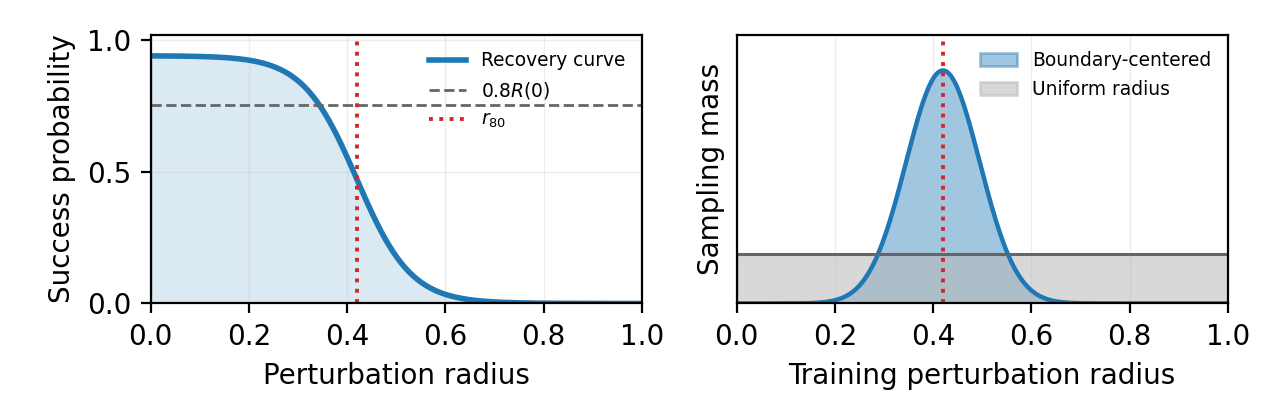
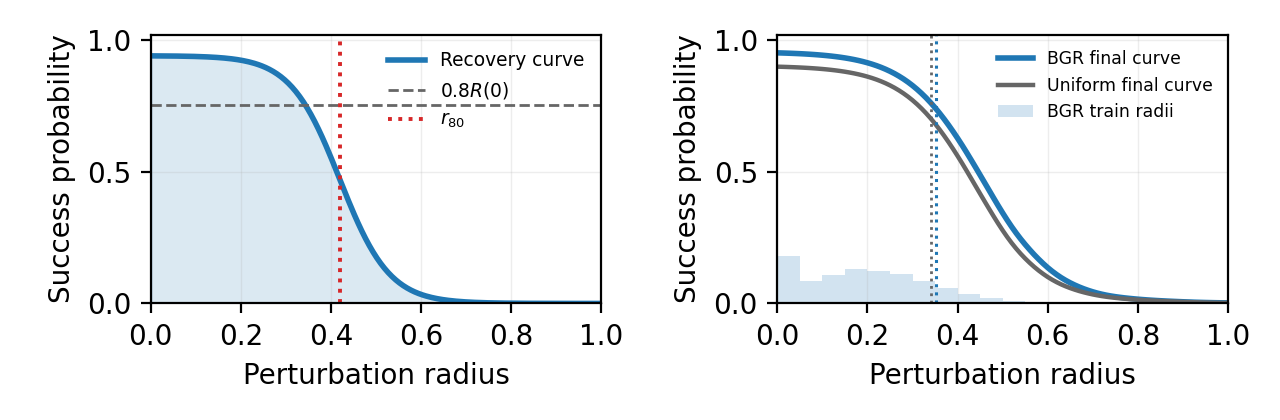
Add empirical boundary intuition figure

diff --git a/scripts/aggregate_results.py b/scripts/aggregate_results.py
@@ -3,7 +3,9 @@ from __future__ import annotations
 
 import argparse
 import csv
+import json
 import math
+import sys
 from pathlib import Path
 
 
@@ -178,7 +180,7 @@ def main() -> None:
         write_csv(out_dir / "openvla_stats.csv", openvla_rows)
         write_openvla_table(out_dir / "openvla_table.tex", openvla_rows)
     try:
-        make_boundary_intuition_figure(out_dir)
+        make_boundary_intuition_figure(out_dir, results_dir)
         make_figures(out_dir, summary_rows)
         if estimator_rows:
             make_estimator_figure(out_dir, estimator_rows)
@@ -737,7 +739,7 @@ def make_figures(out_dir: Path, rows: list[dict]) -> None:
         plt.close(fig)
 
 
-def make_boundary_intuition_figure(out_dir: Path) -> None:
+def make_boundary_intuition_figure(out_dir: Path, results_dir: Path) -> None:
     import matplotlib.pyplot as plt
     import numpy as np
 
@@ -748,9 +750,8 @@ def make_boundary_intuition_figure(out_dir: Path) -> None:
     recovery = clean / (1.0 + np.exp((sigma - radius) / 0.055))
     alpha = 0.8
     threshold = alpha * clean
-    boundary_density = np.exp(-0.5 * ((sigma - radius) / 0.075) ** 2)
-    boundary_density = 0.26 * boundary_density / boundary_density.max()
-    uniform_density = np.full_like(sigma, 0.055)
+
+    trace = grid_margin_boundary_trace(results_dir)
 
     fig, axes = plt.subplots(1, 2, figsize=(6.4, 2.1))
     ax = axes[0]
@@ -766,23 +767,153 @@ def make_boundary_intuition_figure(out_dir: Path) -> None:
     ax.legend(loc="upper right", fontsize=6.7, frameon=False)
 
     ax = axes[1]
-    ax.fill_between(sigma, boundary_density, color="#1f77b4", alpha=0.42, label="Boundary-centered")
-    ax.plot(sigma, boundary_density, color="#1f77b4", linewidth=1.6)
-    ax.fill_between(sigma, uniform_density, color="#b8b8b8", alpha=0.55, label="Uniform radius")
-    ax.plot(sigma, uniform_density, color="#666666", linewidth=1.1)
-    ax.axvline(radius, color="#d62728", linestyle=":", linewidth=1.4)
-    ax.set_xlabel("Training perturbation radius")
-    ax.set_ylabel("Sampling mass")
-    ax.set_ylim(0, 0.30)
+    empirical_sigma = trace["sigma"]
+    bgr_curve = trace["bgr_curve"]
+    uniform_curve = trace["uniform_curve"]
+    ax.plot(empirical_sigma, bgr_curve, color="#1f77b4", linewidth=2.0, label="BGR final curve")
+    ax.plot(empirical_sigma, uniform_curve, color="#666666", linewidth=1.6, label="Uniform final curve")
+    ax.axvline(trace["bgr_median_r80"], color="#1f77b4", linestyle=":", linewidth=1.1)
+    ax.axvline(trace["uniform_median_r80"], color="#666666", linestyle=":", linewidth=1.0)
+    hist, edges = np.histogram(trace["bgr_sampled_sigmas"], bins=np.linspace(0.0, 1.0, 21))
+    heights = hist / max(1, int(hist.max())) * 0.18
+    ax.bar(
+        edges[:-1],
+        heights,
+        width=np.diff(edges),
+        align="edge",
+        color="#1f77b4",
+        alpha=0.20,
+        edgecolor="none",
+        label="BGR train radii",
+    )
+    ax.set_xlabel("Perturbation radius")
+    ax.set_ylabel("Success probability")
+    ax.set_ylim(0, 1.02)
     ax.set_xlim(0, 1.0)
-    ax.set_yticks([])
-    ax.grid(axis="x", alpha=0.22, linewidth=0.5)
-    ax.legend(loc="upper right", fontsize=6.7, frameon=False)
+    ax.grid(alpha=0.22, linewidth=0.5)
+    ax.legend(loc="upper right", fontsize=6.2, frameon=False)
 
     fig.tight_layout(w_pad=1.2)
     fig.savefig(out_dir / "boundary_intuition.pdf")
     fig.savefig(out_dir / "boundary_intuition.png", dpi=200)
     plt.close(fig)
+
+    write_csv(
+        out_dir / "boundary_intuition_stats.csv",
+        [
+            {"metric": "seed", "value": trace["seed"]},
+            {"metric": "bgr_final_rauc", "value": trace["bgr_rauc"]},
+            {"metric": "uniform_final_rauc", "value": trace["uniform_rauc"]},
+            {"metric": "bgr_median_r80", "value": trace["bgr_median_r80"]},
+            {"metric": "uniform_median_r80", "value": trace["uniform_median_r80"]},
+            {"metric": "bgr_sample_radius_q25", "value": trace["bgr_sample_radius_q25"]},
+            {"metric": "bgr_sample_radius_median", "value": trace["bgr_sample_radius_median"]},
+            {"metric": "bgr_sample_radius_q75", "value": trace["bgr_sample_radius_q75"]},
+        ],
+    )
+
+
+def grid_margin_boundary_trace(results_dir: Path) -> dict:
+    import numpy as np
+
+    root = Path(__file__).resolve().parents[1]
+    src_dir = root / "src"
+    if str(src_dir) not in sys.path:
+        sys.path.insert(0, str(src_dir))
+
+    from bgr.metrics import critical_radius, recovery_auc
+
+    config = json.loads((results_dir / "grid_margin_full_30seed_v1" / "results.json").read_text(encoding="utf-8"))[
+        "config"
+    ]
+    seed = 0
+    sigma_grid = np.linspace(0.0, 1.0, 101)
+    alpha = float(config["experiment"].get("alpha", 0.8))
+    bgr = _run_grid_margin_trace(config, "bgr", seed, sigma_grid)
+    uniform = _run_grid_margin_trace(config, "uniform", seed, sigma_grid)
+
+    bgr_radii = [critical_radius(sigma_grid, curve, alpha=alpha) for curve in bgr["state_curves"]]
+    uniform_radii = [critical_radius(sigma_grid, curve, alpha=alpha) for curve in uniform["state_curves"]]
+    bgr_raucs = [recovery_auc(sigma_grid, curve, sigma_max=1.0) for curve in bgr["state_curves"]]
+    uniform_raucs = [recovery_auc(sigma_grid, curve, sigma_max=1.0) for curve in uniform["state_curves"]]
+    sampled = np.asarray(bgr["sampled_sigmas"], dtype=float)
+    return {
+        "seed": seed,
+        "sigma": sigma_grid,
+        "bgr_curve": np.mean(np.vstack(bgr["state_curves"]), axis=0),
+        "uniform_curve": np.mean(np.vstack(uniform["state_curves"]), axis=0),
+        "bgr_rauc": float(np.mean(bgr_raucs)),
+        "uniform_rauc": float(np.mean(uniform_raucs)),
+        "bgr_median_r80": float(np.median(bgr_radii)),
+        "uniform_median_r80": float(np.median(uniform_radii)),
+        "bgr_sampled_sigmas": sampled,
+        "bgr_sample_radius_q25": float(np.quantile(sampled, 0.25)),
+        "bgr_sample_radius_median": float(np.quantile(sampled, 0.50)),
+        "bgr_sample_radius_q75": float(np.quantile(sampled, 0.75)),
+    }
+
+
+def _run_grid_margin_trace(config: dict, method: str, seed: int, sigma_grid) -> dict:
+    import numpy as np
+
+    from bgr.envs.grid_recovery import GridMarginRecoveryBenchmark
+    from bgr.experiments.grid_margin import (
+        _init_records,
+        _refresh_records,
+        _sample_training_pair,
+        _uses_bgr_records,
+    )
+    from bgr.priorities import BGRPriorityScorer
+
+    exp = config["experiment"]
+    bgr_cfg = config.get("bgr", {})
+    rng = np.random.default_rng(seed + 30_000)
+    bench = GridMarginRecoveryBenchmark(
+        num_tasks=int(exp["num_tasks"]),
+        grid_size=int(exp["grid_size"]),
+        obstacle_prob=float(exp["obstacle_prob"]),
+        replay_states_per_task=int(exp["replay_states_per_task"]),
+        max_offset=int(exp["max_offset"]),
+        learning_rate=float(exp["learning_rate"]),
+        seed=seed,
+        feasible_radius_floor=float(exp.get("feasible_radius_floor", 0.35)),
+        feasible_radius_base=float(exp.get("feasible_radius_base", 0.45)),
+        feasible_radius_path_scale=float(exp.get("feasible_radius_path_scale", 0.45)),
+        feasible_radius_noise=float(exp.get("feasible_radius_noise", 0.03)),
+        initial_margin_base=float(exp.get("initial_margin_base", 0.12)),
+        initial_margin_path_scale=float(exp.get("initial_margin_path_scale", 0.22)),
+        initial_margin_noise=float(exp.get("initial_margin_noise", 0.05)),
+        initial_margin_min=float(exp.get("initial_margin_min", 0.05)),
+        initial_margin_max=float(exp.get("initial_margin_max", 0.45)),
+        clean_success_min=float(exp.get("clean_success_min", 0.80)),
+        clean_success_max=float(exp.get("clean_success_max", 0.96)),
+        temperature_min=float(exp.get("temperature_min", 0.045)),
+        temperature_max=float(exp.get("temperature_max", 0.10)),
+        boundary_width=float(exp.get("boundary_width", 0.15)),
+    )
+    alpha = float(exp.get("alpha", 0.8))
+    records = _init_records(bench, bgr_cfg, alpha, rng)
+    scorer = BGRPriorityScorer(target_radius=float(exp.get("target_margin", 0.38)))
+    sampled_sigmas: list[float] = []
+    for step in range(int(exp["iterations"]) + 1):
+        if step % int(exp["eval_every"]) == 0 and _uses_bgr_records(method):
+            _refresh_records(bench, records, bgr_cfg, alpha, rng, step)
+        if step == int(exp["iterations"]):
+            break
+        for _ in range(int(exp["train_batch_size"])):
+            replay_idx, sigma = _sample_training_pair(method, bench, records, scorer, config, rng, step)
+            if method == "bgr":
+                sampled_sigmas.append(sigma)
+            bench.train_step(replay_idx, sigma, rng)
+            if _uses_bgr_records(method):
+                success = bench.rollout(replay_idx, sigma, rng)
+                records[replay_idx].add_observation(sigma, success)
+                records[replay_idx].replay_count += 1
+    state_curves = [
+        np.array([bench.success_prob(replay_idx, float(sigma)) for sigma in sigma_grid], dtype=float)
+        for replay_idx in range(len(bench.states))
+    ]
+    return {"state_curves": state_curves, "sampled_sigmas": sampled_sigmas}
 
 
 def make_estimator_figure(out_dir: Path, rows: list[dict]) -> None:

diff --git a/paper/main.tex b/paper/main.tex
@@ -93,7 +93,7 @@ BGR maintains a buffer of replayable states. For each state, it probes perturbat
 \begin{figure}[t]
 \centering
 \includegraphics[width=\columnwidth]{figures/boundary_intuition.pdf}
-\caption{Geometric intuition for BGR. A recovery curve maps perturbation radius to success probability; the critical radius is the success--failure crossing relative to clean success. BGR concentrates radius samples near this crossing while retaining clean, easier, harder, broad, and uniform components for coverage.}
+\caption{Geometric intuition for BGR and empirical grid-margin trace. Left: a recovery curve maps perturbation radius to success probability, and the critical radius is the success--failure crossing relative to clean success. Right: a deterministic seed-0 grid-margin replay trace overlays final BGR/uniform recovery curves with the BGR training-radius histogram, showing how boundary-centered replay concentrates updates near the trainable transition while retaining coverage.}
 \label{fig:boundary-intuition}
 \end{figure}
 

diff --git a/scripts/check_submission_package.py b/scripts/check_submission_package.py
@@ -343,6 +343,7 @@ PAPER_FIGURE_ARTIFACTS = [
     "paper/figures/summary_stats.csv",
     "paper/figures/summary_table.tex",
     "paper/figures/bgr_deltas.csv",
+    "paper/figures/boundary_intuition_stats.csv",
     "paper/figures/significance_tests.csv",
     "paper/figures/significance_table.tex",
     "paper/figures/grid_margin_full_stats.csv",
@@ -383,6 +384,7 @@ PAPER_GENERATED_VISUAL_ARTIFACTS = [
 AGGREGATE_TEXT_ARTIFACTS = [
     "summary_stats.csv",
     "bgr_deltas.csv",
+    "boundary_intuition_stats.csv",
     "summary_table.tex",
     "estimator_stats.csv",
     "estimator_table.tex",